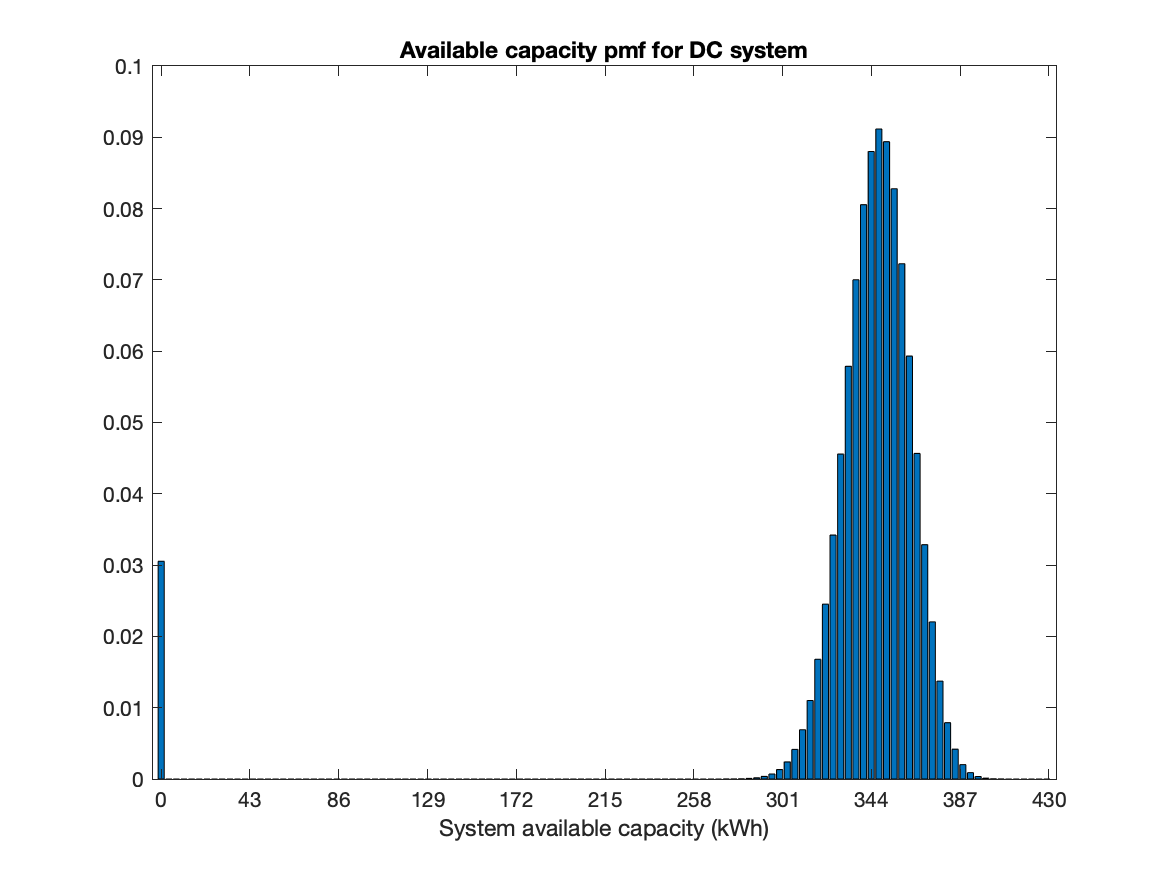
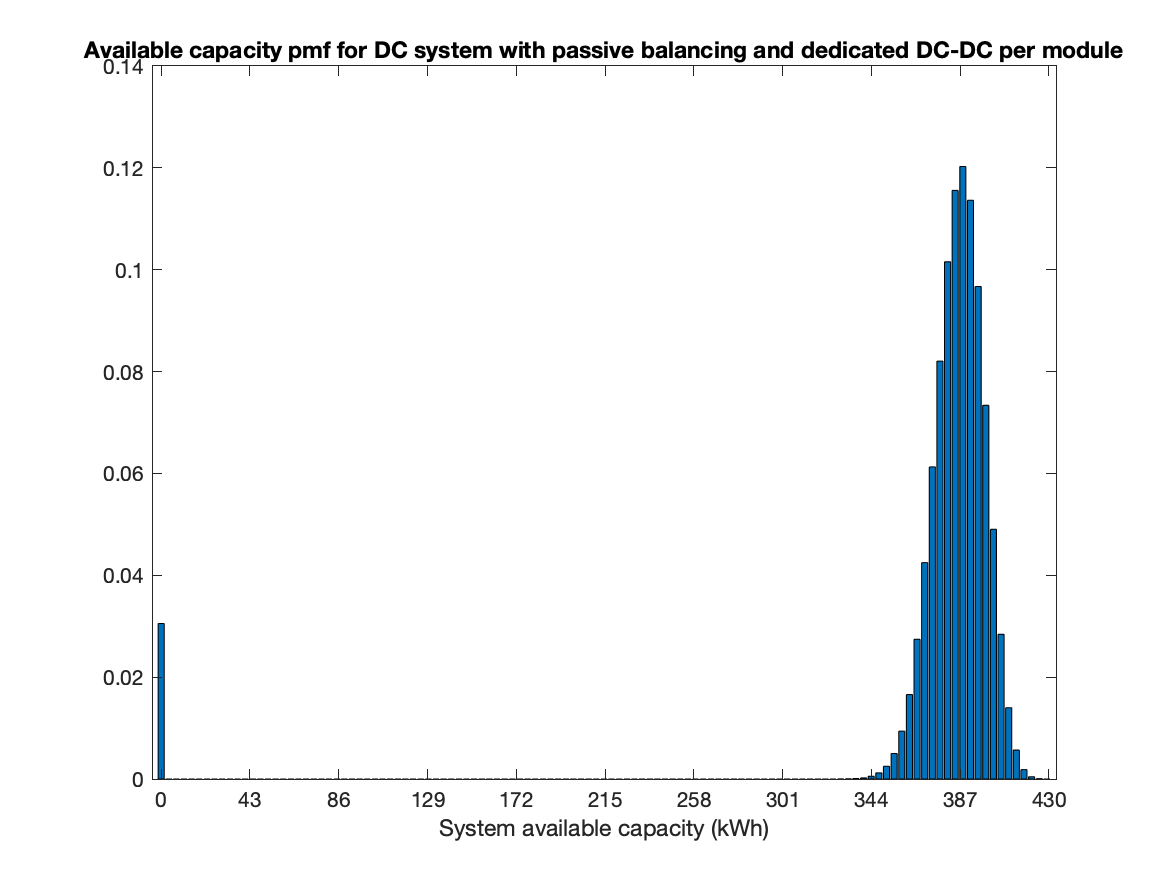
completed analysis for 2S, 3S configs. saved figures and table

diff --git a/reliability_calcs.m b/reliability_calcs.m
@@ -1,3 +1,6 @@
+close all
+clear
+
 % Defining values failure rates of components, in failures per hour, based
 % on MIL-HDBK-217Plus
 scale = 1e6;
@@ -10,6 +13,7 @@ lambdaIgbt = 0.034227/scale;
 lambdaR = 0.00264/scale;
 
 lifetime = 96000; % estimated lifetime of system, based on quarterly report
+balanceTime = 0.2*lifetime;
 
 nCapDC = 2; % number of capacitors in DC-DC converter
 nDiodeDC = 8;
@@ -19,7 +23,7 @@ nXfmrDC = 1;
 
 lambdaDC = nCapDC*lambdaC + nDiodeDC*lambdaDiode + nMosfetDC*lambdaMosfet + ...
     nInductorDC*lambdaL + nXfmrDC*lambdaXfmr;
-Rdc = exp(-lambdaDC*lifetime); % reliability estimate for DC-DC onverter at time 'lifetime'
+Rconv = exp(-lambdaDC*lifetime); % reliability estimate for DC-DC onverter at time 'lifetime'
 
 nCapAC = 5; % number of capacitors in DC-AC inverter
 nDiodeAC = 6;
@@ -29,7 +33,7 @@ nResistorAC = 6;
 
 lambdaAC = nCapAC*lambdaC + nDiodeAC*lambdaDiode + nIgbtAC*lambdaIgbt + ...
     nInductorAC*lambdaL + nResistorAC*lambdaR;
-Rac = exp(-lambdaAC*lifetime); % reliability estimate for DC-AC onverter at time 'lifetime'
+Rinv = exp(-lambdaAC*lifetime); % reliability estimate for DC-AC onverter at time 'lifetime'
 
 nCapPB = 1; % number of capacitors in passive balancing system
 nDiodePB = 1;
@@ -38,76 +42,175 @@ nResistorPB = 3;
 
 lambdaPB = nCapPB*lambdaC + nDiodePB*lambdaDiode + nMosfetPB*lambdaMosfet + ...
     nResistorPB*lambdaR;
-Rpb = exp(-lambdaPB*lifetime);
+Rpb = exp(-lambdaPB*balanceTime);
 
 energyModule = 4300;
-% System 1: DC layout with passive balancing
-% Consider sub-system 1: module with 14 passive balancing systems in series 
-x1 = [0 energyModule];
-p1 = [1-Rpb Rpb];
+%% System 1: AC layout with passive balancing 
+% Consider subsystem 1.1: module with 14 passive balancing systems in
+% series.
+% In the AC case, the loss of any one balancing circuit represents the loss of a
+% whole series string of modules.
 nBlockSer = 14;
+nModSer_AC = 19;
+Xpb_AC = nModSer_AC .* [0 energyModule]; % [Xpb_AC, Ppb] represents the distribution for one passive balancing circuit
+Ppb = [1-Rpb Rpb];
 
-[X1, P1] = n_same_system_series(nBlockSer,x1,p1);
-[X1, P1] = combine_like_terms(X1, P1);
+% Subsystem 1.1: Module. 14 PB circuits in series
+[Xmod_AC, Pmod] = n_same_system_series(nBlockSer, Xpb_AC, Ppb);
 
-% Consider sub-system 2: module with 14 PB systems in series with DC-DC
-% converter
-x2 =  [0 energyModule];
-p2 = [1-Rdc Rdc];
-[X2, P2] = diff_systems_series(X1, P1, x2, p2);
-[X2, P2] = combine_like_terms(X2, P2);
+% Sub-system 1.2: String. 19 modules connected in series
+[Xstring_AC, Pstring_AC] = n_same_system_series(nModSer_AC, Xmod_AC, Pmod);
 
-% Consider sub-system 3: 116 modules (with converters) connected in parallel
-[X3, P3] = n_same_system_parallel(116, X2, P2);
+% Subsystem 1.3: Pack. 6 strings connected in parallel
+nModPar_AC = 6;
+[Xpack_AC, Ppack_AC] = n_same_system_parallel(nModPar_AC, Xstring_AC, Pstring_AC);
 
-% Consider sub-system 4: 1 inverter in series with sub-system 3
-energyPack = 498800;
-x4 = [0 energyPack];
-p4 = [1-Rac Rac];
-[X4, P4] = diff_systems_series(X3, P3, x4, p4);
-[X4, P4] = combine_like_terms(X4, P4);
+% System 1: System. Inverter connected in series with pack
+Xinv_AC = [0 energyModule*nModSer_AC*nModPar_AC]; % [Xinv_AC, Pinv] represents the distribution for one inverter
+Pinv = [1-Rinv Rinv];
+[Xsys_AC, Psys_AC] = diff_systems_series(Xpack_AC, Ppack_AC, Xinv_AC, Pinv);
 
-% System 2: AC layout with passive balancing system
-% Consider sub-system 5: module with 14 passive balancing systems in
-% series. We already computed this distribution above: X1, P1. 
-% In the AC case, though, the loss of one module represents the loss of a
-% whole series string of modules, so we modify the X1 values and keep the P1 
-% values for use here:
-nModSer = 19;
-X5 = X1 .* nModSer;
-P5 = P1;
+%% System 2: DC layout with passive balancing, 1 module per DC-DC converter
+% Consider subsystem 2.1: Module. 14 passive balancing circuits connected in series. 
 
-% Consider sub-system 6: 19 modules connected in series
-[X6, P6] = n_same_system_series(nModSer, X5, P5);
-[X6, P6] = combine_like_terms(X6,P6)
+% To start, we need the distribution for one PB circuit. We computed that
+% above, but in this case the failure of one PB circuit only results in the
+% failure of one module, not a string of modules. So, we modify the Xpb 
+% values from System 1 and keep the Ppb values.
+Xpb_DC = [0 energyModule];
 
-% Consider sub-system 7: 6 of sub-system 6 connected in parallel
-nModPar = 6;
-[X7, P7] = n_same_system_parallel(nModPar, X6, P6);
+[Xmod_DC, Pmod] = n_same_system_series(nBlockSer, Xpb_DC, Ppb);
 
-% Consider sub-system 8: inverter connected in series with sub-system 7
-x8 = [0 energyModule*nModSer*nModPar];
-p8 = p4;
-[X8, P8] = diff_systems_series(X7,P7, x8, p8);
-[X8, P8] = combine_like_terms(X8, P8)
+% Subsystem 2.2: Pod. Module in series with DC-DC converter
+Xconv =  [0 energyModule]; % [Xconv, Pconv] represents the probabilty distribution for one DC-DC converter
+Pconv = [1-Rconv Rconv];
+[Xpod, Ppod] = diff_systems_series(Xmod_DC, Pmod, Xconv, Pconv);
 
+% Subsystem 2.3: Pack. 116 Pods connected in parallel
+nModPar_DC = 116;
+[Xpack_DC, Ppack_DC] = n_same_system_parallel(nModPar_DC, Xpod, Ppod);
+
+% System 2: System. 1 inverter in series with Pack
+Xinv_DC = [0 nModPar_DC*energyModule];
+[Xsys_DC, Psys_DC] = diff_systems_series(Xpack_DC, Ppack_DC, Xinv_DC, Pinv);
+
+%% System 3: DC layout with active balancing
+Rab = exp(-lambdaDC*balanceTime); % reliability of active balance system at 
+%   time 'lifetime,' assuming balancing circuits operate 20% of the time
+
+% Consider subsystem 3.1: Module. nBlockSer active balancing circuits connected
+% in series
+Xab = [0 energyModule]; % [Xab, Pab] represents the probability distribution of one active balancing circuit (DC-DC converter)
+Pab = [1-Rab Rab];
+[Xmod_DC_AB, Pmod_DC_AB] = n_same_system_series(nBlockSer, Xab, Pab);
+
+% Subsystem 3.2: Pod. Module in series with DC-DC converter
+[Xpod_AB, Ppod_AB] = diff_systems_series(Xmod_DC_AB, Pmod_DC_AB, Xconv, Pconv);
+
+% Subsystem 3.3: Pack. 116 Pods connected in parallel
+[Xpack_DC_AB, Ppack_DC_AB] = n_same_system_parallel(nModPar_DC, Xpod_AB, Ppod_AB);
+
+% System 3: System. Pack in series with inverter
+[Xsys_DC_AB, Psys_DC_AB] = diff_systems_series(Xpack_DC_AB, Ppack_DC_AB, Xinv_DC, Pinv);
+
+%% System 4: DC layout with passive balancing, 2 modules in series connected to each converter
+% Now we consider 2 modules connected in series to each DC-DC converter.
+
+% Similar to in System 2, the first building block here will be the module,
+% made up of 14 PB circuits in series
+% We've already computed this subsystem distribution (Xmod_DC, Pmod), but now the
+% loss of any one module circuit results in the loss of 2 modules. So, we keep
+% the Pmod values and scale the Xmod_DC values by 2.
+nModSer_DC2S = 2;
+% Subsystem 4.1: Module. 14 PB circuits in series
+Xmod_DC2S = nModSer_DC2S * Xmod_DC;
+
+% Subsystem 4.2: String. 2 modules connected in series
+[Xstring_DC2S, Pstring_DC2S] = n_same_system_series(nModSer_DC2S, Xmod_DC2S, Pmod);
+
+% Subsystem 4.3: Pod. String connected in series with DC-DC converter.
+% Again we scale the X values for the DC-DC converter, because the failure
+% of one DC-DC results in the failure of nModSer_DC modules
+Xconv_DC2S = nModSer_DC2S * Xconv;
+[Xpod_DC2S, Ppod_DC2S] = diff_systems_series(Xstring_DC2S, Pstring_DC2S, Xconv_DC2S, Pconv)
+
+% Subsystem 4.4: Pack. 58 Strings connected in series
+nModPar_DC2S = nModPar_DC / nModSer_DC2S;
+[Xpack_DC2S, Ppack_DC2] = n_same_system_parallel(nModPar_DC2S, Xpod_DC2S, Ppod_DC2S);
+
+% System 4: System. Pack in series with inverter
+[Xsys_DC2S, Psys_DC2S] = diff_systems_series(Xpack_DC2S, Ppack_DC2, Xinv_DC, Pinv);
+
+%% System 5. DC layout with passive balancing, 3 modules in series connected to each converter
+nModSer_DC3S = 3;
+% Subsystem 5.1: Module. 14 PB circuits in series
+Xmod_DC3S = nModSer_DC3S * Xmod_DC;
+
+% Subsystem 5.2: String. 3 modules in series
+[Xstring_DC3S, Pstring_DC3S] = n_same_system_series(nModSer_DC3S, Xmod_DC3S, Pmod);
+
+% Subsystem 5.3: Pod. String in series with DC-DC converter
+Xconv_DC3S = nModSer_DC3S * Xconv;
+[Xpod_DC3S, Ppod_DC3S] = diff_systems_series(Xstring_DC3S, Pstring_DC3S, Xconv_DC3S, Pconv);
+
+% Subsystem 5.4: Pack. 38 3S pods in parallel, plus one 2S pod
+nModPar_DC3S = floor(nModPar_DC/nModSer_DC3S);
+[Xpack_DC3S, Ppack_DC3S] = n_same_system_parallel(nModPar_DC3S, Xpod_DC3S, Ppod_DC3S);
+[Xpack_DC3S, Ppack_DC3S] = diff_systems_parallel(Xpack_DC3S, Ppack_DC3S, Xpod_DC2S, Ppod_DC2S);
+
+% System 5: System. Pack in series with inverter
+[Xsys_DC3S, Psys_DC3S] = diff_systems_series(Xpack_DC3S, Ppack_DC3S, Xinv_DC, Pinv);
+%% Figures
 figure
-bar(X8,P8)
-xticklabels(X8/1000)
+bar(Xsys_AC/1000, Psys_AC)
+%xticklabels(X8)
 xlabel('System available capacity (kWh)')
 title('Available capacity pmf for AC system')
-saveas(gcf, 'AChisto.png')
+saveas(gcf, 'AChisto_PB.png')
 
 figure
-bar(X4,P4)
-xticklabels(X4/100)
+bar(Xsys_DC/1000,Psys_DC)
+%xticklabels(X4/100)
 xlabel('System available capacity (kWh)')
-title('Available capacity pmf for DC system')
-saveas(gcf, 'DChisto.png')
+title('Available capacity pmf for DC system with passive balancing and dedicated DC-DC per module')
+saveas(gcf, 'DChisto_PB_dedicated_converter.png')
+
+figure
+bar(Xsys_DC_AB/1000, Psys_DC_AB)
+xlabel('System available capacity (kWh)')
+title('Available capacity pmf for DC system with active balancing and dedicated DC-DC per module')
+saveas(gcf, 'DChisto_AB_dedicated_converter.png')
+
+figure
+bar(Xsys_DC2S/1000, Psys_DC2S)
+xlabel('System available capacity (kWh)')
+title('Available capacity pmf for DC system with passive balancing and 2 modules in series with each DC-DC')
+saveas(gcf, 'DChisto_PB_2modules.png')
+
+figure
+bar(Xsys_DC3S/1000, Psys_DC3S)
+xlabel('System available capacity (kWh)')
+title('Available capacity pmf for DC system with passive balancing and 3 modules in series with each DC-DC')
+saveas(gcf, 'DChisto_PB_3modules.png')
 
 w = 400000;
-acceptabilityAC = compute_acceptability(X8, P8, w);
-acceptabilityDC = compute_acceptability(X4, P4, w);
 
-expectedOutputAC = sum(X8.*P8);
-expectedOutputDC = sum(X4.*P4);
+acceptabilityAC = compute_acceptability(Xsys_AC, Psys_AC, w);
+acceptabilityDC_PB = compute_acceptability(Xsys_DC, Psys_DC, w);
+acceptabilityDC_AB = compute_acceptability(Xsys_DC_AB, Psys_DC_AB, w);
+acceptabilityDC2S = compute_acceptability(Xsys_DC2S, Psys_DC2S, w);
+acceptabilityDC3S = compute_acceptability(Xsys_DC3S, Psys_DC3S, w);
+
+expectedOutputAC = sum(Xsys_AC.*Psys_AC);
+expectedOutputDC_PB = sum(Xsys_DC.*Psys_DC);
+expectedOutputDC_AB = sum(Xsys_DC_AB.*Psys_DC_AB);
+expectedOutputDC_2S = sum(Xsys_DC2S.*Psys_DC2S); 
+expectedOutputDC_3S = sum(Xsys_DC3S.*Psys_DC3S);
+
+acceptability = [acceptabilityAC; acceptabilityDC_PB; acceptabilityDC_AB; acceptabilityDC2S; acceptabilityDC3S];
+expectedOutput = [expectedOutputAC; expectedOutputDC_PB; expectedOutputDC_AB; expectedOutputDC_2S; expectedOutputDC_3S];
+
+T1 = table(expectedOutput/1000, acceptability);
+T1.Properties.RowNames = ["AC system, PB", "DC system, PB", "DC system, AB", "DC system, 2S", "DC system, 3S"];
+T1.Properties.VariableNames = ["Expected output (kWh)", "Acceptability"];
+disp(T1)

diff --git a/n_same_system_series.m b/n_same_system_series.m
@@ -8,19 +8,18 @@ for i = 1:n
 end
  
 for i = 1:n-1
-%    i
  if i==1
-     tempX = combvec(X(i,:), X(i+1,:))
-     tempP = combvec(P(i,:), P(i+1,:))
+     tempX = combvec(X(i,:), X(i+1,:));
+     tempP = combvec(P(i,:), P(i+1,:));
  else
-     tempX = combvec(tempX, X(i+1,:))
-     tempP = combvec(tempP, P(i+1,:))
+     tempX = combvec(tempX, X(i+1,:));
+     tempP = combvec(tempP, P(i+1,:));
  end
  tempX = min(tempX,[],1);
  tempP = prod(tempP, 1);
  [tempX, tempP] = combine_like_terms(tempX,tempP);
 end
-X = min(tempX, [], 1);
-P = prod(tempP,1);
+X = tempX;
+P = tempP;
 
     

diff --git a/diff_systems_series.m b/diff_systems_series.m
@@ -2,5 +2,5 @@ function [X, P] = diff_systems_series(X1, P1, X2, P2)
 
     X = min(combvec(X1,X2),[],1);
     P = prod(combvec(P1,P2),1);
-    
+    [X, P] = combine_like_terms(X,P);
 end

diff --git a/diff_systems_parallel.m b/diff_systems_parallel.m
@@ -1,0 +1,6 @@
+function [X, P] = diff_systems_parallel(X1, P1, X2, P2)
+
+X = sum(combvec(X1,X2),1);
+P = prod(combvec(P1,P2),1);
+[X, P] = combine_like_terms(X,P);
+end

diff --git a/n_same_system_parallel.m b/n_same_system_parallel.m
@@ -29,5 +29,5 @@ for i = 1:n-1
 %         tempX
 %     end
 end
-X = sum(tempX,1);
-P = prod(tempP,1);
+X = tempX;
+P = tempP;
